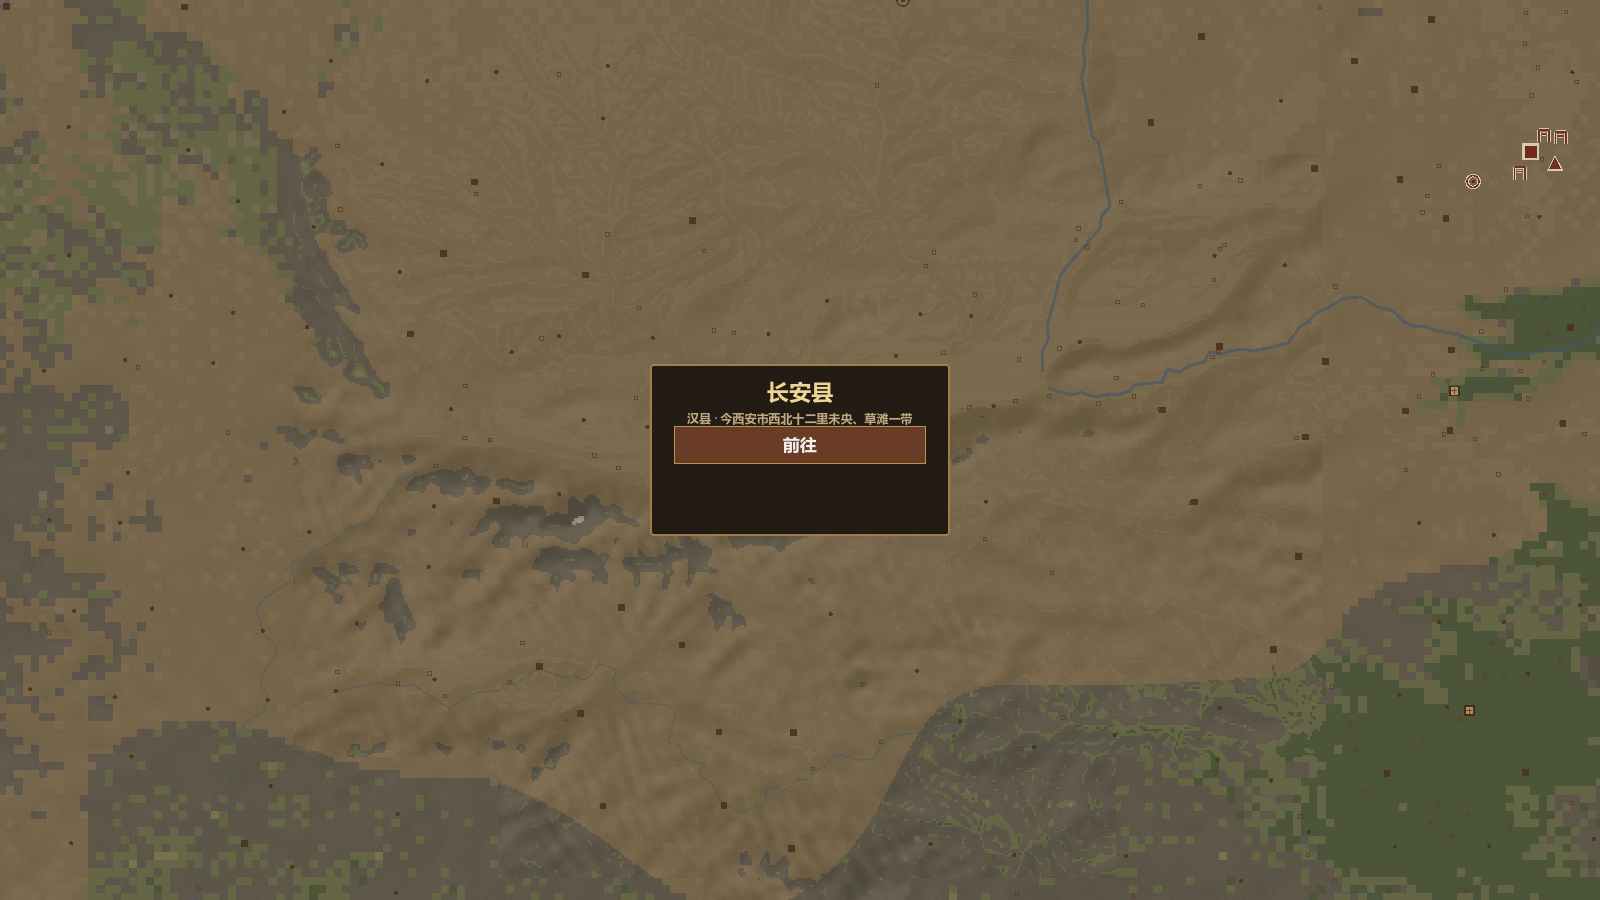
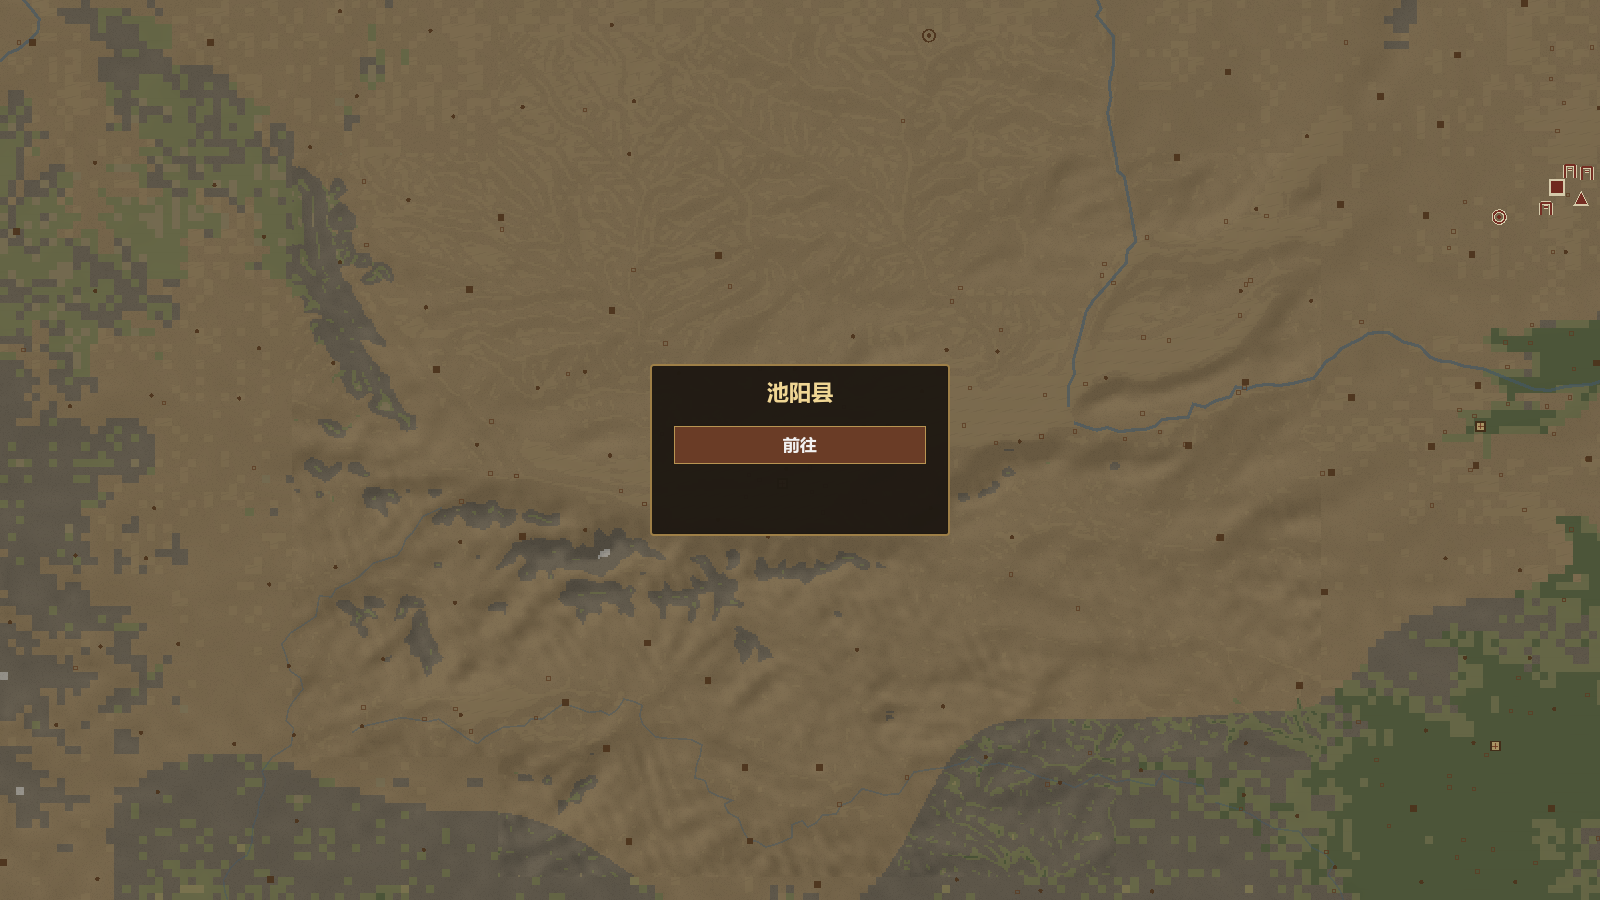
按用户要求回退：1 倍不强制居中（恢复只夹±180/±85）；汉书县面板去掉汉县·今地那行，只留县名+前往

diff --git a/交接_地图系统.md b/交接_地图系统.md
@@ -91,11 +91,12 @@ powershell -NoProfile -ExecutionPolicy Bypass -File tools\run_tests.ps1
 > 现在两处都改成 `content_h / (LAT_LIMIT*2)`。别再改回 180/360。
 
 **平移夹取**（`_clamp_map_center`）：
-- 可见跨度 ≥ 300° 时**强制居中**（1 倍整幅世界时用它；不居中就会偏在一边、右边露出布帛）；
-- 否则中心经纬度限制在 ±180 / ±85；
+- 中心经纬度限制在 ±180 / ±85（**只有这一条**，没有任何倍率阈值）；
 - 即"地图内容边界最多到屏幕中心"。
-- ⚠ `_draw_map` 里**先夹取再排版**：夹取可能把中心改成 0，`content_rect` 必须用夹取后的值，
-  否则这一帧画偏、要等下一次重绘才跳正。
+- ⚠ **低倍不强制居中**（2026-11-15 用户明确："1 倍居中不合适地图"）。1 倍时整幅世界的比例尺
+  比屏幕大，内容区会偏在一边、右边露出布帛 —— 这是**刻意的**，试过加"可见跨度 ≥ 300° 强制居中"，
+  被否了，别再"修"。
+- `_draw_map` 里先夹取再排版（夹取只夹 ±180/±85，放前面只是免得拖到边界时多等一帧）。
 
 ---
 
@@ -211,7 +212,7 @@ powershell -NoProfile -ExecutionPolicy Bypass -File tools\run_tests.ps1
 | 左键点城市 | 弹出面板：地名 + 街道 / 府衙 |
 | 左键点聚落 | 面板：地名 + 进村 |
 | 左键点关城/邑 | 面板：地名 + 「类别·年代」+ 前往（关=城门符号、城=方块、邑=圆环、要地=三角） |
-| 左键点汉县 | 面板：县名 + 「汉县 · 今地」+ 前往（县=小空心方框，20 倍淡入） |
+| 左键点汉县 | 面板：县名 + 前往（县=小空心方框，20 倍淡入；**面板不带"汉县·今地"副标题**，用户不要） |
 | 左键拖动 | 平移地图 |
 | 滚轮 | 以鼠标为轴心缩放 |
 | 右键 | 落旅行标（自由点） |
@@ -328,7 +329,8 @@ powershell -NoProfile -ExecutionPolicy Bypass -File tools\run_tests.ps1
       `loc` 今地（直接给面板看）、`src` CHGIS SYS_ID（可回溯）；
     - 生成工具 `ias/tools/import_chgis_counties.py`，1 秒跑完，**不要手改 JSON**；
     - 地图上：**小空心方框**（1–2.4 px，20 倍淡入，颜色 0.36,0.24,0.14），
-      和聚落的实心方块、关城的朱砂方块区分；**不写文字**，悬停金盘 + 加粗空框，点开面板看「县名 + 汉县·今地 + 前往」；
+      和聚落的实心方块、关城的朱砂方块区分；**不写文字**，悬停金盘 + 加粗空框，点开面板只有「县名 + 前往」；
+      `loc`（今地）字段仍留在 JSON 里备用，但**不上屏**（用户 2026-11-15 要求去掉那行字）；
     - 命中半径 9 px 且排在聚落之后（聚落是"进村"节点，先让给它）；查表时先把点击位置换成经纬度，
       只测附近 12 px 内的几个点（1134 个全算屏幕坐标太浪费）；
     - 校验：`--sitestats` 会打印县数、经度范围、落水数（实测 **0 处落水**）、长安/雒阳/邯郸/成都/宛/临淄/番禺 的坐标与今地。
@@ -475,8 +477,8 @@ a05f3c5 地图加舆图符号层
 - ~~`sites_han.json` 还没画到地图上~~ → **2026-11-15 已画**（第 8 节第 9 条），六处关城/邑/要地可悬停、可点开前往；
 - ~~汉书·地理志的县未导入（缺坐标源，需 CHGIS/TGaz）~~ → **2026-11-15 已导入**（第 8 节第 11 条），
   1134 处，图上小空心方框 + 悬停 + 点开前往；缺口是西汉边郡偏稀、缺郡级归属；
-- 已知小毛病（本轮没动）：无。1 倍偏在一边已在 2026-11-15 下午修掉（`_clamp_map_center` 恢复
-  "可见跨度 ≥ 300° 强制居中"，见第 2 节）。
+- 已知小毛病（**刻意保留，不是 bug**）：1 倍时地图偏在一边。试过"跨度 ≥ 300° 强制居中"，
+  用户 2026-11-15 明确否掉（"1 倍居中不合适地图"），已改回原来的行为，别再加回来。
 
 ### 回滚点
 - `1f59d38` 夜战5：08（2px + 9×9 + 流式预烘，当前基线）
@@ -524,10 +526,8 @@ a05f3c5 地图加舆图符号层
 - `HANDOFF_MAP.md` 是**坏的**（GBK 解码过的乱码副本），别拿它当参考，只看这份 `交接_地图系统.md`。
 
 ### 下午追加（同日）
-1. **1 倍强制居中** ✅ `_clamp_map_center()` 恢复"可见跨度 ≥ 300° → 中心归 (0,0)"这条规则，
-   并把 `_clamp_map_center()` 挪到 `_draw_map` 排版之前（顺序错了会画偏一帧）。
-   验证：`--mapzoom=1` 时 `[尺寸] content=1119x528 at (241,186)`（1600 宽，左右各余 240），
-   卷轴左右轴杆对称、两边布帛一样宽。
+1. ~~**1 倍强制居中**~~ ❌ **已回退**（用户："1 倍居中不合适地图"）。`_clamp_map_center()` 恢复成
+   只夹 ±180/±85，1 倍时地图照旧偏在一边。别再"修"这条。
 2. **去掉右下角缩放读数** ✅ 删掉 `_draw_map` 里那行 `×%s`，`_zoom_text()` 没人用了也一起删。
    现在图上真的一处文字都没有；要读倍率用 `--mapsize` 或调试参数。
 3. 截图：`截图_20261115/地图_1倍居中.png`、`截图_20261115/地图_60倍无读数.png`。
